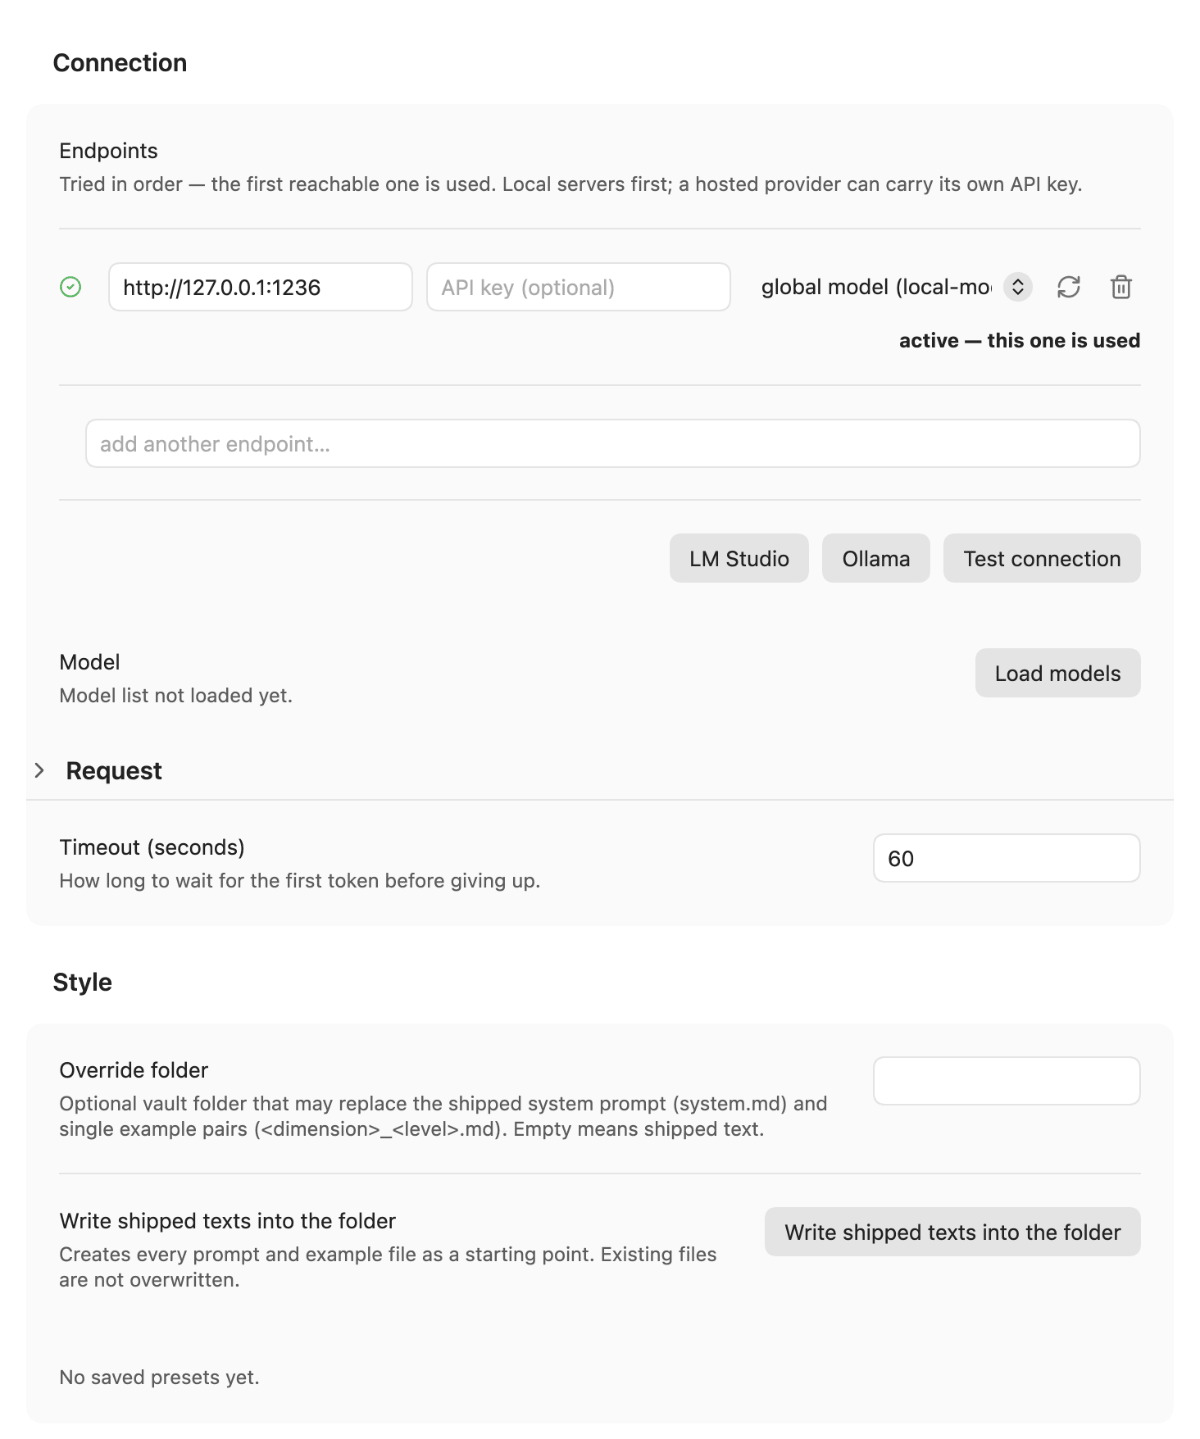
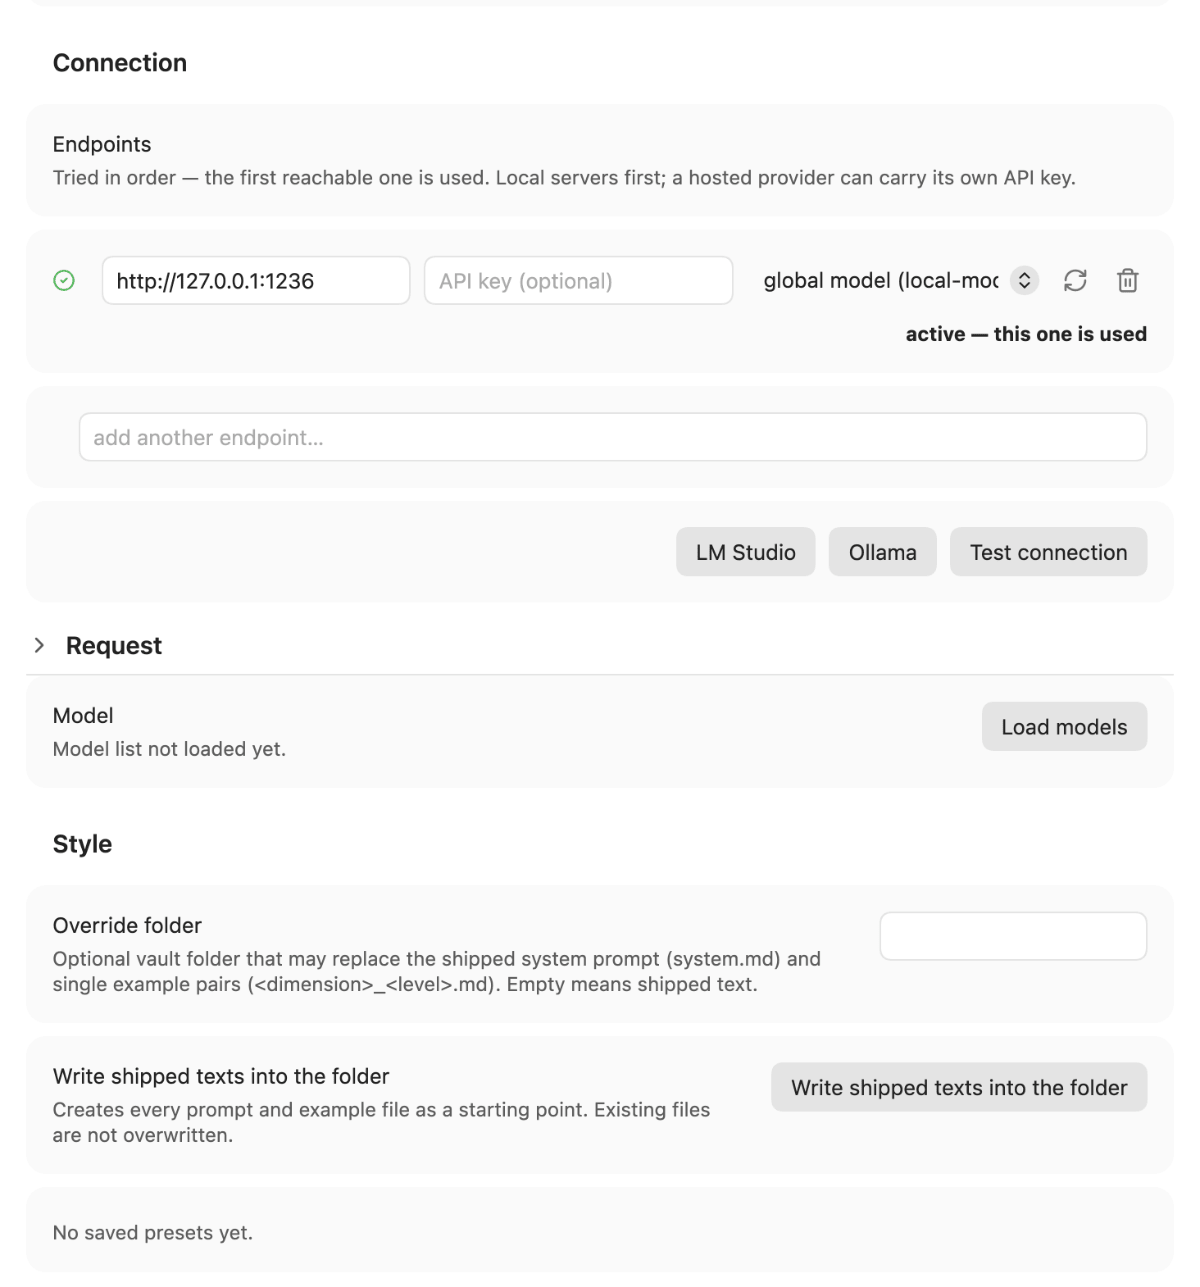
docs(images): settings.png ohne Timeout-Zeile, Request vor Modell (Verbindungs-Tausch)

diff --git a/docs/images/README.md b/docs/images/README.md
@@ -19,7 +19,7 @@ Der Treiber startet auf Port 1236 einen Fake-Server, der einen festen, redaktion
 |---|---|---|---|
 | `hero.png` | hero | README.md, README.de.md (Kopf) | Das ganze Fenster: Notiz „Draft reply to Sam" im Editor, rechts das LingoTuner-Panel mit Quelle „Selection: 175 characters", Preset „Maximum clarity" aktiv, vier Reglern am linken Anschlag, dem gestreamten Ergebnis und den vier Ausgängen (Replace selection, Replace note, Copy, New note) |
 | `rounds.png` | feature | README.md, README.de.md (Usage) | Dasselbe Fenster nach zwei Runden: die Anmerkung „Keep the offer of another day.", das Ergebnis von Runde 2 und die Liste „Rounds" mit „Round 1 · from source · no note" und der aktiven „Round 2 · refined from round 1 · …". Aufgenommen in der Standardbreite der Seitenleiste (~300 px) |
-| `settings.png` | feature | README.md, README.de.md (Configuration) | Den Einstellungen-Tab von „Connection" bis zum Ende von „Style": Endpunkt-Zeile mit grünem Haken und „active — this one is used", Modell, aufklappbares „Request", Override-Ordner, „Write shipped texts into the folder", „No saved presets yet." Die Gruppe „Output" fehlt bewusst: der Tab ist länger als der Bildschirm |
+| `settings.png` | feature | README.md, README.de.md (Configuration) | Den Einstellungen-Tab von „Connection" bis zum Ende von „Style": Endpunkt-Zeile mit grünem Haken und „active — this one is used", aufklappbares „Request" (zugeklappt), Modell, Override-Ordner, „Write shipped texts into the folder", „No saved presets yet." Die Gruppe „Output" fehlt bewusst: der Tab ist länger als der Bildschirm |
 | `dials.png` | detail | README.md, README.de.md (Usage) | Nur das Panel, Preset „Collegial" aktiv, die vier Regler auf verschiedenen Stufen mit ihren Stufennamen („somewhat more direct", „somewhat warmer"), leere Anmerkung, Knopf „Tune", Statuszeile „Ready" und der leere Vorschaubereich „The tuned text appears here." |
 
 Kein GIF: der Stream ist das einzige bewegte Ereignis, und ein Standbild des Ergebnisses trägt die Aussage.

diff --git a/README.md b/README.md
@@ -91,7 +91,7 @@ The replace buttons stay disabled unless the source is still live — same note,
 | Logbook | Off by default. When on, every run is appended to a monthly note (time, model, dial values, note, original, result). |
 | Folder for new notes | Where **New note** puts the tuned text. Empty means the vault root. |
 
-<p align="center"><img src="https://raw.githubusercontent.com/johannes-kaindl/lingotuner/main/docs/images/settings.png" width="820" alt="The LingoTuner settings tab: the Connection group with one reachable endpoint marked active, the Model and Request rows, then the Style group with the override folder"></p>
+<p align="center"><img src="https://raw.githubusercontent.com/johannes-kaindl/lingotuner/main/docs/images/settings.png" width="820" alt="The LingoTuner settings tab: the Connection group with one reachable endpoint marked active, the collapsed Request section and the Model row, then the Style group with the override folder"></p>
 
 ## How it works
 
